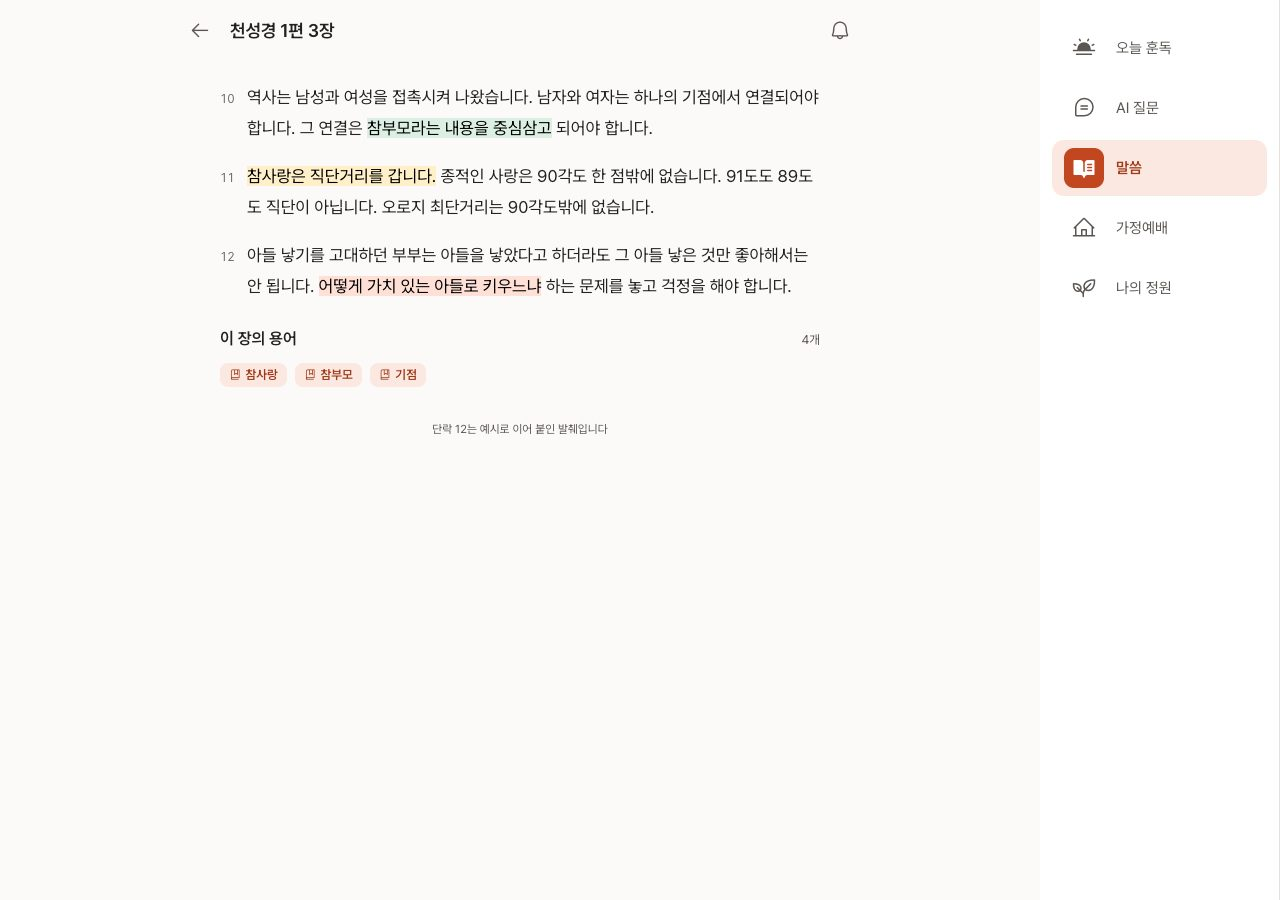
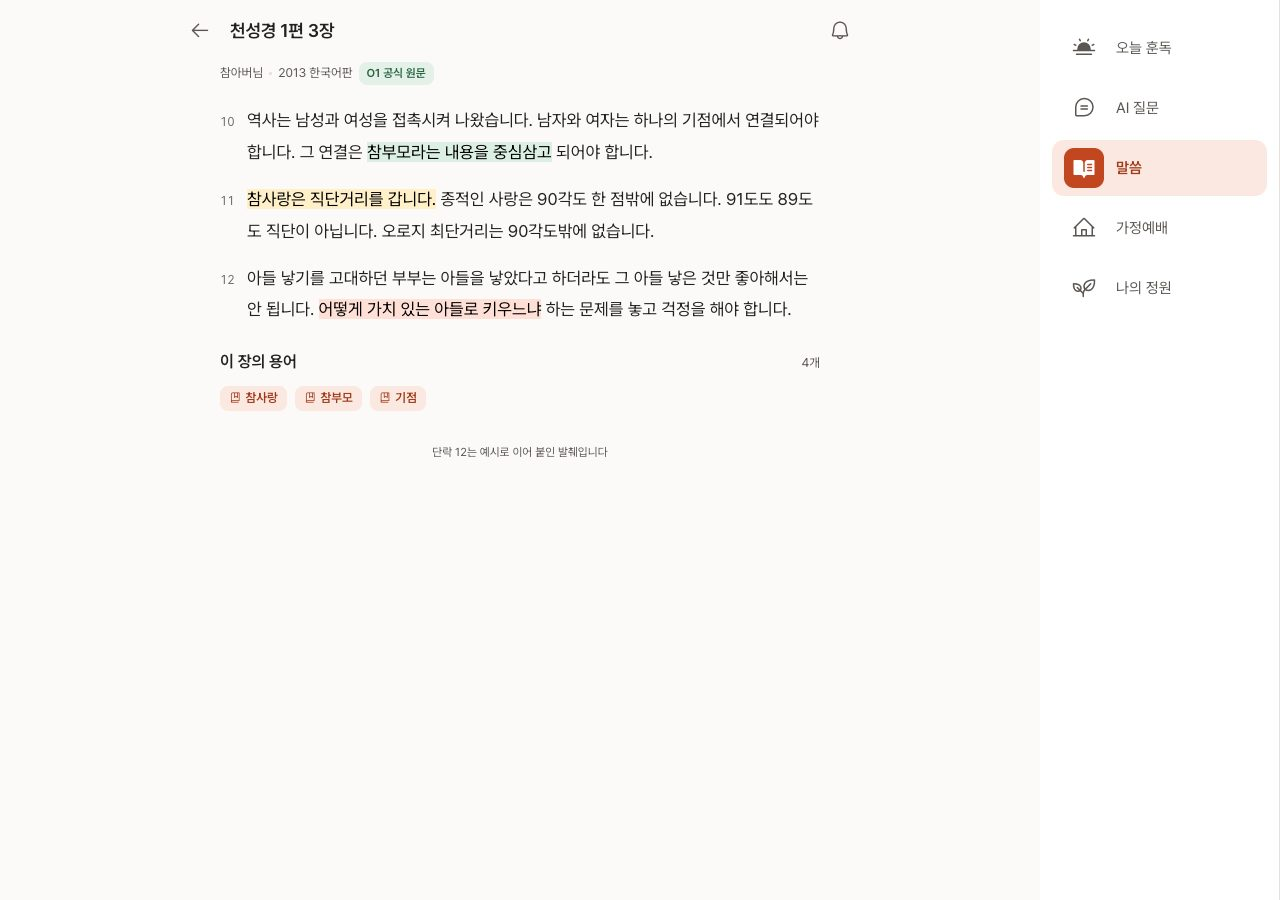
docs(design): 훈독 DESIGN.md 7안 독립 심사 3명 + DES-PWA-005 비교 문서 + A 기준안 출처 라인 결함 수정
- 심사 결과 C Notion·E Starbucks 84.3 동률 1위, F Claude 78.7, A 73.3
- theme-card.css 가 .lede-src 를 모든 화면에서 숨기던 결함을 today 한정으로 수정, A 캡처 5장 재촬영·재채점
- docs/README 색인, TODO Completed·[확인 필요] 갱신

Changed region(s): [[0.1562, 0.0622, 0.6562, 0.4667], [0.3438, 0.4667, 0.4688, 0.5289], [0.625, 0.3733, 0.6562, 0.4044]]

diff --git a/docs/prd/prototypes/hoondok-ds/theme-card.css b/docs/prd/prototypes/hoondok-ds/theme-card.css
@@ -4,5 +4,6 @@
 [data-theme="card"] .missions{gap:12px}
 [data-theme="card"] .mission{background:var(--surface);border:1px solid var(--line);
   border-radius:var(--r);padding:14px 16px;box-shadow:var(--shadow-hairline)}
-[data-theme="card"] .lede{display:none}          /* 홈 첫 요소는 사진 */
-[data-theme="card"] .lede-src{display:none}
+/* 홈 첫 요소는 사진. 훈독하기·원문 화면의 출처 라인은 숨기지 않는다 (2026-09-16 심사에서 발견한 결함 수정) */
+[data-theme="card"] [data-screen="today"] .lede{display:none}
+[data-theme="card"] [data-screen="today"] .lede-src{display:none}

diff --git a/docs/prd/2026-09-16-hoondok-designmd-directions.md b/docs/prd/2026-09-16-hoondok-designmd-directions.md
@@ -1,0 +1,189 @@
+# 훈독 DESIGN.md 7안 비교 — A 기준 + 브랜드 디자인 언어 6종
+
+- 문서 ID: `DES-PWA-005`
+- 작성일: 2026-09-16
+- 상태: **결정 대기.** 7안 중 하나를 고르거나, A 골격에 특정 요소만 흡수한다
+- 입력: [`DES-PWA-003` 디자인 시스템](../specs/web/hoondok-design-system.md), [`DES-PWA-004` 데스크톱 4안 비교](2026-09-16-hoondok-desktop-directions.md), [awesome-design-md](https://github.com/VoltAgent/awesome-design-md) 사본 6종 [`docs/research/design-md/`](../research/design-md/README.md)
+- 산출물: 비교 보드 [`hoondok-ds/board-designmd.html`](prototypes/hoondok-ds/board-designmd.html) · 테마 CSS 6장 · 캡처 35장 · 독립 심사 3명
+- 표기: 라벨 없는 문장은 렌더·계산으로 확인한 사실이다. `[가정]`은 검증이 필요한 추론, `[확인 필요]`는 사용자 결정이 필요한 항목이다
+
+## 0. 이 비교가 앞선 비교와 다른 점
+
+`DES-PWA-004`는 디자인 **도구** 3종이 자유롭게 그린 시안이었다. 이번에는 실제 브랜드가 공개한 **디자인 규칙 문서(DESIGN.md)** 를 읽고 훈독 도메인으로 번역했다. 브랜드 로고·이름·상징은 하나도 가져오지 않았고, 여백 총량·타이포 위계·색 역할 배분·형태 체계만 가져왔다.
+
+구조도 다르다. 7안 모두 **같은 마크업 한 벌(`app.html`)과 같은 베이스 CSS(`hoondok.css`)** 를 쓰고, 다른 것은 얹은 테마 CSS 한 장뿐이다. 정보구조·콘텐츠 차이가 0이라 심사가 순수하게 시각 언어만 본다. 폰(390)이 설계 기준이고 PC(1280)는 같은 CSS 의 미디어쿼리가 확장한 결과다.
+
+## 1. 일곱 안 한눈에
+
+| | **A 기준** | **B Apple** | **C Notion** | **D WIRED** | **E Starbucks** | **F Claude** | **G Airbnb** |
+|---|---|---|---|---|---|---|---|
+| 테마 파일 | `theme-card.css` | `theme-apple.css` | `theme-notion.css` | `theme-wired.css` | `theme-starbucks.css` | `theme-claude.css` | `theme-airbnb.css` |
+| 바탕 | `#fbfaf8` 웜 오프화이트 | `#f5f5f7` 파치먼트 | `#ffffff` | `#ffffff` | `#f2f0eb` 크림 | `#faf9f5` 크림 | `#ffffff` |
+| 액센트 | `#c24721` 감귤 | `#0066cc` 액션 블루 1색 | `#a8420b` 러스트 | `#101010` 먹 (링크 블루 1곳) | `#00754a` 딥그린 (+골드 예식) | `#a9583e` 테라코타 | `#e00b41` 코랄 |
+| 말씀 서체 | Pretendard | Pretendard | **Noto Serif KR** | **Noto Serif KR** | **Noto Serif KR** | **Noto Serif KR** | Pretendard |
+| 모서리 | 16 | 18 / 8 | 12 / 8 / 6 (알약 없음) | **0** | 12 | 12 / 8 | 20 / 8 / 알약 |
+| 권위 3층 방식 | 좌측 굵은 바 / 점무늬 카드 / 점선 | 맨살 / 흰 면+헤어라인 / 테두리만 | 인용 블록 / 라벤더 콜아웃 / 점선 입력 | 세리프 맨살 / 회색 상자 / 파선 | **딥그린 반전 블록** / 회색 상자 / 점선 | 잉크 좌측 룰+세리프 / 크림 카드 / 점선 | 상하 헤어라인 / 카드+그림자 / 입력 칸 |
+| 홈 첫 요소 | 사진 | 말씀 한 문장 → 풀블리드 사진 | 브레드크럼 → 말씀 | 제호 밴드 → 말씀 | 말씀 → 사진 | 제호 → 세리프 말씀 | 말씀 → 사진 카드 |
+
+각 테마 CSS 헤더에 "번역 결정 5줄"과 "의도적으로 버린 규칙"이 있다. 브랜드별 핵심만 옮기면:
+
+- **B Apple** 액션 색 1개, 그림자 0, 본문 17px, 사진 풀블리드. 광고형 라이트↔다크 타일 교대는 아침 앱에 부담이라 버렸다
+- **C Notion** 블록 언어(인용·콜아웃·입력)를 권위 3층에 1:1 배정. 보라 CTA 는 러스트로 교체
+- **D WIRED** "서사는 세리프, 구조는 산세리프". 유채색은 인라인 링크 1곳. 자간 남용은 하지 않았다(직전 편집안 탈락 사유)
+- **E Starbucks** 4단계 색 역할(deep·accent·mint·gold)을 원문·행동·완료·예식에 배분. 골드는 짙은 면 위에서만
+- **F Claude** 크림 캔버스 + 테라코타 + 세리프 디스플레이. 원색 `#cc785c`는 흰 글자 3.28:1 미달이라 press 색으로 교체. 다크 네이비 면은 버렸다
+- **G Airbnb** 단일 액센트(Rausch 원색은 미달이라 press 값), 카드=고르는 물건이라는 마켓플레이스 신호를 뒤집어 AI 설명에만 카드를 줬다
+
+## 2. 대비 (계산값, 각 테마 토큰 기준)
+
+WCAG 2.2 AA 는 본문 4.5:1, 비텍스트 3:1.
+
+| 안 | 바탕 | 액센트 | 본문/바탕 | 보조/바탕 | 흰 글자/액센트 | 액센트/바탕 | 강한 액센트/바탕 |
+|---|---|---|---|---|---|---|---|
+| A | `#fbfaf8` | `#c24721` | 15.38 | 6.97 | **4.98** | **4.77** | 6.46 |
+| B | `#f5f5f7` | `#0066cc` | 15.46 | 11.60 | 5.57 | 5.11 | 6.54 |
+| C | `#ffffff` | `#a8420b` | 12.26 | 6.80 | 6.09 | 6.09 | 9.11 |
+| D | `#ffffff` | `#101010` | 19.03 | 8.86 | 19.03 | 19.03 | 5.53 |
+| E | `#f2f0eb` | `#00754a` | 14.63 | 6.62 | 5.76 | 5.06 | 7.01 |
+| F | `#faf9f5` | `#a9583e` | 17.50 | 10.34 | 5.06 | **4.80** | 6.35 |
+| G | `#ffffff` | `#e00b41` | 15.91 | 10.53 | **4.89** | **4.89** | 6.55 |
+
+A·F·G 의 웜 액센트는 AA 기준선에 걸친다(4.8~5.1). 이 셋은 액센트 위 흰 글자를 쓸 때 `--accent-strong` 으로 내려야 안전하다. D 는 유채색이 없어 대비가 무의미하게 높다.
+
+## 3. 심사 전 손질 (스킬 패스 2회)
+
+심사 캡처 전에 테마 CSS 6장(A 제외)에 두 패스를 돌렸다. 각 패스가 기각한 지적은 CSS 하단 주석 블록에 사유와 함께 남겼다.
+
+| 패스 | 수정 | 기각 | 가장 큰 발견 |
+|---|---|---|---|
+| `ui-ux-pro-max` (접근성·터치·폭·타이포) | 21 | 2 | E 하단 탭이 딥그린 색면이라 베이스 초록 포커스 링이 **2.16:1** 로 보이지 않았다. 흰 링(12.45:1)으로 교체 |
+| `taste-skill` (AI 슬롭 패턴) | 14 | 15 | F today 의 미션 3개가 바로 아래 정성 카드와 면·테두리·모서리가 완전히 같아 위계가 사라졌다. 헤어라인 행으로 내림 |
+
+`ui-ux-pro-max` 패스는 6테마 × 3화면 × 2폭 = 36 조합을 실측했고, 헤더 주석의 대비 수치는 전부 실측과 일치했다. 1280 본문 폭은 폰트를 건드리지 않고 `--measure-read` 만 테마별로 조정해 한글 35~44자 구간에 넣었다.
+
+**7안 공통이라 손대지 않은 것 2건**: `app.html` 의 "이 말씀에 질문하기" 인라인 링크 높이 19.5px, 체크 원(30~32px)·용어 칩(30px) 이 44px 미만. 베이스 마크업·`DES-PWA-003` 소관이며 어떤 안을 고르든 같이 고쳐야 한다.
+
+## 4. 심사 결과
+
+독립 심사원 3명(각각 빈 컨텍스트 opus, 서로 상의 없음)이 5축 × 20점으로 채점했다. 캡처 35장(7안 × 폰 3 + PC 2)을 전부 열어 보게 했다.
+
+채점 축: 1 대상 적합성(30~60대·신앙 정서) · 2 모바일 설계(390 이 본체) · 3 권위 층 분리(가장 중요) · 4 접근성·가독성 · 5 PC 확장
+
+### 4.1 점수
+
+| 축 (각 20점) | A | B | C | D | E | F | G |
+|---|---|---|---|---|---|---|---|
+| 1 대상 적합성 | 15 · 16 · 16 | 12 · 12 · 11 | 18 · 18 · 15 | 8 · 11 · 12 | **17 · 19 · 19** | 19 · 17 · 18 | 11 · 12 · 9 |
+| 2 모바일 | 15 · 16 · 17 | 16 · 16 · 13 | 17 · 17 · 15 | 13 · 17 · 13 | **15 · 18 · 18** | 16 · 15 · 17 | 13 · 16 · 16 |
+| 3 권위 층 | 16 · 17 · 16 | 15 · 13 · 10 | **19 · 18 · 18** | 12 · 14 · 11 | **17 · 19 · 19** | 15 · 16 · 15 | 11 · 11 · 7 |
+| 4 접근성 | 13 · 15 · 12 | 17 · 17 · 12 | 15 · 17 · 15 | **16 · 18 · 17** | 14 · 16 · 16 | 12 · 14 · 14 | 15 · 15 · 13 |
+| 5 PC 확장 | 11 · 13 · 12 | 13 · 12 · 10 | **16 · 18 · 17** | 14 · 16 · 14 | 13 · 17 · 16 | 15 · 18 · 15 | 14 · 14 · 13 |
+| **합계** | 70 · 77 · 73 | 73 · 70 · 56 | 85 · 88 · 80 | 63 · 76 · 67 | 76 · 89 · 88 | 77 · 80 · 79 | 64 · 68 · 58 |
+
+| | A | B | **C** | D | **E** | F | G |
+|---|---|---|---|---|---|---|---|
+| 평균 | 73.3 | 66.3 | **84.3** | 68.7 | **84.3** | 78.7 | 63.3 |
+| 1위 표 | 0 | 0 | 1 | 0 | **2** | 0 | 0 |
+| 2위 표 | 0 | 0 | **2** | 0 | 0 | 1 | 0 |
+| 축별 1위(평균) | 0 | 0 | 2 (권위층 공동·PC) | 1 (접근성) | 3 (대상·모바일·권위층 공동) | 0 | 0 |
+
+**C 와 E 가 평균 동률 84.3 이다.** E 가 1위 2표, C 가 1위 1표 + 2위 2표. F 가 3표 모두 3위 근처(2·3·3위)로 단독 3위. A 는 4·4·5위. 나머지 셋(B·D·G)은 60점대로 뚜렷이 뒤진다.
+
+축별 평균:
+
+| 축 | A | B | C | D | E | F | G |
+|---|---|---|---|---|---|---|---|
+| 1 대상 적합성 | 15.7 | 11.7 | 17.0 | **10.3** ⚠ | **18.3** | 18.0 | 10.7 |
+| 2 모바일 | 16.0 | 15.0 | 16.3 | 14.3 | **17.0** | 16.0 | 15.0 |
+| 3 권위 층 | 16.3 | 12.7 | **18.3** | 12.3 | **18.3** | 15.3 | **9.7** ⚠ |
+| 4 접근성 | 13.3 | 15.3 | 15.7 | **17.0** | 15.3 | 13.3 | 14.3 |
+| 5 PC 확장 | **12.0** ⚠ | 11.7 | **17.0** | 14.7 | 15.3 | 16.0 | 13.7 |
+
+### 4.2 심사원 3명이 독립적으로 같은 말을 한 것
+
+| 대상 | 3/3 공통 |
+|---|---|
+| **E 채택 근거** | `e-390-read` 의 딥그린 반전 원문 블록. 권위 3층을 색이 아니라 **바탕의 무게**로 가른 유일한 안. 색각 이상·저조도에서도 "짙은 덩어리 = 공식 원문"이 살아남는다 |
+| **C 채택 근거** | 라벤더 AI 콜아웃 + 세리프 원문 + 점선 메모. 3층이 색·서체·형태 세 축으로 동시에 갈린다. `c-1280-words` 읽기 폭(약 40자)이 7안 중 가장 정확하다 |
+| **E 수정 필수** | 딥그린 카드 위 골드 `D-14` 가 AA 경계. 하단 딥그린 푸터 띠가 딥그린 탭바와 붙어 짙은 띠 두 겹. 원문이 길어지면 다크 장문 읽기가 50~60대에 부담 → **글자 수 임계치 넘으면 라이트 카드 + 좌측 바로 폴백** 규칙 필요 |
+| **A 약점** | AI 설명과 내 메모가 **둘 다 점선**이라 가장 중요한 두 층이 같은 형태. `a-390-read` 원문 제목이 본문보다 작아 위계 역전 |
+| **D 결함** | 하이라이트 3종이 전부 회색이라 강조의 종류 구분이 소멸. 색을 뺀 대신 대체 신호를 주지 않았다 |
+| **G 결함** | 원문·AI·메모가 모두 흰 배경 + 얇은 회색 선이라 3층이 한 층으로 읽힌다(권위층 9.7, 최저) |
+| **B·D 폰 문제** | 상단 대형 타이틀/제호 밴드 + 히어로가 첫 화면의 40% 이상을 먹어 "오늘의 실천"이 접힌다. 1280 에서는 보이지 않는다 |
+
+2/3 이 지적: C·D 체크박스가 30px 사각이라 엄지 타깃 부족(§3 의 공통 건). F 의 AI 크림 카드가 페이지 크림과 명도 차가 작아 층 분리가 C·E 보다 무르다. F 요일 칩이 검정 채움 + 테라코타 테두리라 팔레트가 흔들린다.
+
+### 4.3 A 재채점 공개
+
+첫 캡처에서 A 의 훈독하기·원문 화면에 **출처 라인과 `O1 공식 원문` 배지가 통째로 빠져 있었다.** `theme-card.css` 가 홈 첫 요소를 사진으로 두려고 `.lede-src` 를 숨겼는데 화면 구분 없이 전부 숨긴 제작 결함이다(이전 커밋 `4ecf6d0`). today 화면에만 적용되도록 한 줄 고치고 A 캡처 5장을 다시 찍어 3명에게 **A 만** 재채점을 요청했다.
+
+| 심사원 | A 이전 → 이후 | 순위 변화 |
+|---|---|---|
+| 1 | 65 → 70 (권위층 +6, 접근성 −1) | 5위 유지 |
+| 2 | 71 → 77 (권위층 +3, 대상·모바일·접근성 +1씩) | 5위 → 4위 |
+| 3 | 68 → 73 (권위층 +4, 접근성 +1) | 4위 유지 |
+
+재채점 후에도 A 는 C·E 와 11점 차다. 결함 수정이 순위 구조를 바꾸지는 않았다. 재채점 기록은 각 `judge-N.md` 하단에 있다.
+
+### 4.4 심사 조건
+
+- 심사원 3명은 각각 빈 컨텍스트에서 시작했고 서로 상의하지 않았다
+- 브랜드 이름은 프롬프트에 넣지 않았다. 단 CSS 파일명(`theme-apple.css` 등)이 출처를 암시하므로 채점 기준에 "그 이름으로 점수를 조정하지 마라"를 명시했다. 완전한 블라인드는 아니다
+- 채점 원문 3건과 기준: [`prototypes/reviews-2026-09-16-designmd/`](prototypes/reviews-2026-09-16-designmd/README.md)
+
+## 5. 결정 가이드
+
+### 5.1 세 축의 맞교환
+
+```
+정서·따뜻함(A·F)  ←──────────────────→  권위 층 분리(C·E)  ←──────→  대비 여유(D)
+   F 78.7 · A 73.3                        E 84.3 · C 84.3                 D 68.7
+```
+
+- **E Starbucks** 정서와 권위 층을 동시에 잡은 유일한 안(대상 18.3·권위 18.3). 대신 반전 블록의 장문 폴백 규칙과 골드 대비를 손봐야 한다. `DEC-PWA-017`(A 단독) 재결정 필요
+- **C Notion** 권위 층·PC 확장이 가장 정확하고 수정 요구가 적다. 정서는 E 보다 한 단계 차다(보라가 웜 팔레트와 어긋난다는 지적 1건). 재결정 필요
+- **F Claude** A 와 같은 웜 계열을 "더 잘 만든" 안. 정서 18.0 으로 A 를 앞서지만 접근성 13.3 으로 A 와 같은 약점(연한 칩·옅은 선)을 공유한다
+- **A 기준** 재채점 후에도 4위. 최대 약점은 PC 확장(12.0)과 "AI·메모 둘 다 점선". 둘 다 `DES-PWA-003` 안에서 고칠 수 있는 범위다
+
+### 5.2 5분 안에 결정하는 법
+
+1. 보드를 연다: `docs/prd/prototypes/hoondok-ds/board-designmd.html` → 폭 **390** → 화면 **훈독하기**
+2. 일곱 개의 "AI 설명" 상자를 나란히 본다. **"공식 해설 아님"이 형태만으로 읽히는가**를 이 한 화면으로 판단한다
+3. 아래에서 고른다
+
+| 마음이 가는 쪽 | 고를 안 | 필요한 후속 |
+|---|---|---|
+| "심사 결과를 따르겠다" | **E** 또는 **C** | `DEC-PWA-017` 재결정 + `DES-PWA-003` §1 토큰 교체. E 는 반전 블록 장문 폴백·골드 대비, C 는 라벤더 본문 대비 실측 |
+| "감귤 아침 느낌은 지키되 A 보다 나은 걸 원한다" | **F** | 재결정 필요. 칩·선 대비 보강(접근성 13.3) |
+| "A 를 유지하고 고친다" | **A + 흡수** | 재결정 없음. §5.3 흡수 후보 적용 + PC 여백 처리 |
+| "지금 못 고르겠다" | 보류 | 실제 사용자 3명에게 `*-390-read.jpg` 7장을 보여 준다. 10분이면 된다 |
+
+### 5.3 어떤 안을 고르든 가져올 것
+
+- **E 의 반전 원문 블록** (3/3 추천). A 골격에 이식하면 "AI·메모 둘 다 점선" 문제가 원문 쪽에서 해소된다
+- **C 의 AI 콜아웃 이중 라벨** ("AI 설명 · 공식 해설 아님" 내부 + 헤더 우측). 오인 여지가 가장 적다
+- **D 의 형태 전용 요일 칩** (채움/링/민 원). 색만으로 상태를 구분하지 않는다는 요건을 공짜로 충족한다
+- **B 의 본문 17px 규범**. 30~60대 주 사용자와 방향이 같다
+
+### 5.4 주의
+
+심사원 3명은 모두 **AI** 다. "대상 적합성" 점수는 추론이지 관찰이 아니다. 실제 30~60대 사용자 3명이 7장을 보는 것이 이 점수 전체보다 낫다.
+
+## 6. 제작 기준
+
+- 마크업 한 벌 `app.html`, 베이스 `hoondok.css`, 테마 `theme-*.css`. 테마는 `[data-theme="x"]` 접두 셀렉터로만 덮어쓴다. 마크업·베이스를 복제하지 않는다
+- base=390px. 미디어쿼리 없는 규칙이 폰 규칙, `768`·`1024` 에서 확장. 1024 이상에서 하단 탭 → 좌측 레일 전환은 베이스가 한다
+- 콘텐츠(말씀·인물·교회·수치)는 예시이며 7안 동일. 사진은 `picsum.photos` 예시
+- 렌더 검증: Chromium 390×844·1280×900, 7안 × 3화면, 가로 넘침 0px, JS 오류 0
+- DESIGN.md 원본은 수정하지 않았다(외부 자료 정책). 번역 근거는 각 CSS 헤더
+
+## 7. 결정 기록
+
+| 날짜 | 결정 | 상태 |
+|---|---|---|
+| 2026-09-14 | `DEC-PWA-017` A 아침 햇살 단독 채택, 세리프 인용 미채택 | 확정 (입력) |
+| 2026-09-16 | `DES-PWA-004` 데스크톱 4안 심사 (D 89.3 1위) | 완료 · 결정 대기 |
+| 2026-09-16 | DESIGN.md 6종 번역 + 7안 심사 (**C·E 84.3 동률 1위**, F 78.7, A 73.3) | 완료 · §4 |
+| 2026-09-16 | A 기준안 출처 라인 결함 발견·수정·재채점 | 완료 · §4.3 |
+| — | **어떤 안으로 갈 것인가** (E / C / F / A+흡수) | `[확인 필요]` |
+| — | 세리프 말씀 인용 재검토 — 상위 3안(C·E·F)이 전부 세리프 원문 | `[확인 필요]` |

diff --git a/docs/prd/prototypes/reviews-2026-09-16-designmd/judge-2.md b/docs/prd/prototypes/reviews-2026-09-16-designmd/judge-2.md
@@ -1,0 +1,48 @@
+# 독립 심사원 2번 — 훈독 시안 7벌 채점
+
+35장(390px 3장 × 7 + 1280px 2장 × 7)을 모두 직접 열어 본 뒤 작성했다.
+
+## 점수표
+| 시안 | 1.대상적합 | 2.모바일 | 3.권위층 | 4.접근성 | 5.PC확장 | 합계 |
+|---|---|---|---|---|---|---|
+| A | 16 | 16 | 17 | 15 | 13 | 77 |
+| B | 12 | 16 | 13 | 17 | 12 | 70 |
+| C | 18 | 17 | 18 | 17 | 18 | 88 |
+| D | 11 | 17 | 14 | 18 | 16 | 76 |
+| E | 19 | 18 | 19 | 16 | 17 | 89 |
+| F | 17 | 15 | 16 | 14 | 18 | 80 |
+| G | 12 | 16 | 11 | 15 | 14 | 68 |
+
+## 순위
+1위 안 E — `e-390-read.jpg` 에서 공식 원문만 딥그린 다크 카드에 흰 글씨로 들어가 있어, 일곱 안 중 유일하게 "원문 / AI / 내 메모"가 색이 아니라 **바탕 자체**로 갈린다.
+2위 안 C — `c-390-read.jpg` 의 라벤더 AI 카드가 원문(좌측 세로 바 + 세리프)·메모(점선)와 서로 다른 색계열·서로 다른 형태를 동시에 쓴 유일한 대안이고, `c-1280-words.jpg` 의 세리프 본문 폭이 7안 중 가장 자연스럽다.
+3위 안 F — `f-1280-today.jpg`/`f-1280-words.jpg` 의 베이지·테라코타 조화가 7안 중 가장 안정적이지만, `f-390-read.jpg` 의 AI 카드 베이지가 페이지 배경 베이지와 거의 같아 층 분리가 C·E보다 약하다.
+4위 안 A — 수정본 `a-390-read.jpg`/`a-390-words.jpg` 에 출처 라인(참아버님 · 천성경 · 2013 한국어판 · `O1 공식 원문`)이 붙어 권위 축이 크게 회복됐지만, AI 설명과 내 메모가 **여전히 둘 다 점선 테두리**라 가장 중요한 두 층이 같은 형태를 쓴다.
+5위 안 D — `d-390-words.jpg` 는 대비가 7안 중 최강이지만 하이라이트 3종이 전부 회색·밑줄로 뭉개져 원문 강조의 의미 구분이 사라졌다.
+6위 안 B — `b-390-read.jpg` 의 본문 대비·글자 크기는 최상급이나 파랑 일색이 새벽 훈독의 정서와 어긋나고, `b-1280-today.jpg` 는 48px 제목과 과대 여백으로 PC 스크롤만 길어졌다.
+7위 안 G — `g-390-read.jpg` 에서 원문·AI·메모가 모두 흰 배경 + 얇은 회색 선이라 세 층이 사실상 한 층으로 읽힌다.
+
+## 시안별 한 줄 평
+- 안 A: 강점 — `a-390-read.jpg` 원문 좌측 굵은 세로 바 + 상단 출처 라인이 함께 걸려, 원문 블록이 "어디서 왔는지"와 "어디까지가 원문인지"를 한 덩어리로 보여준다. `a-390-today.jpg` 는 히어로 바로 아래 실천 카드가 이어져 7안 중 유일하게 첫 화면에서 실천 1번이 온전히 보인다. 약점 — 수정본 `a-390-read.jpg` 의 말씀 제목("참사랑은 직단거리를 갑니다")이 바로 아래 인용 블록보다 작고 얇아 **위계가 역전**돼 있다. AI 설명과 메모가 둘 다 점선인 문제도 그대로다.
+- 안 B: 강점 — `b-390-words.jpg` 의 본문 글자 크기·굵기가 7안 중 가장 노안 친화적이다. 약점 — `b-1280-words.jpg` 는 원문 단락에 아무 시각적 앵커가 없어 AI 카드가 붙는 순간 층 위계가 무너질 구조다.
+- 안 C: 강점 — AI 설명만 라벤더 계열을 써서 원문(무채)·메모(점선)와 3방향으로 갈린다. 약점 — `c-390-today.jpg` 의 실천 체크박스가 얇은 회색 선 사각형이라 탭 대상으로 잘 안 읽힌다.
+- 안 D: 강점 — `d-1280-words.jpg` 까지 색 없이 대비만으로 성립해 WCAG 위험이 가장 낮다. 약점 — `d-390-today.jpg` 의 검정 마스트헤드·신문 조판이 "조용하고 따뜻한 아침"이 아니라 조간신문처럼 읽힌다.
+- 안 E: 강점 — `e-390-words.jpg` 의 단락 번호 원형 배지(11번만 채움)가 현재 위치를 색+형태로 이중 표시한다. 약점 — `e-390-today.jpg` 요일 칩의 연민트 배경 위 회색 글자, `e-1280-today.jpg` 딥그린 카드 위 금색 D-14가 대비 경계선이다.
+- 안 F: 강점 — 7안 중 정서 온도가 가장 높고 `f-1280-words.jpg` 읽기 폭이 적절하다. 약점 — `f-390-today.jpg` 실천 3항목이 카드 없이 구분선만이라 탭 가능 영역이 안 보이고, 요일 칩은 검정 채움 + 테라코타 테두리가 섞여 팔레트가 흔들린다.
+- 안 G: 강점 — `g-390-today.jpg` 의 여백 설계가 가볍고 스크롤이 짧다. 약점 — 크림슨 완료 버튼과 핑크 진행바가 커머스 앱 톤이고, 세 층 분리는 7안 중 최하다.
+
+## 결정권자에게
+- **고른다면**: 안 E. 이 제품의 1순위 축인 권위 층 분리를 색이 아닌 **바탕 반전**으로 풀어서, 향후 콘텐츠가 길어지거나 AI 블록이 늘어도 위계가 깨지지 않는다. 정서(딥그린·크림)도 새벽 훈독 톤과 맞고, `e-1280-*` 에서 레일 전환이 폰을 늘린 느낌 없이 성립한다.
+- **주의할 점**:
+  1. `e-390-read.jpg` 의 다크 원문 카드는 지금 한 단락이라 괜찮지만, 원문이 3단락 이상으로 길어지면 다크 배경 장문 읽기는 50~60대에게 부담이다. **글자 수 임계치를 정하고 그 이상이면 라이트 카드 + 좌측 딥그린 바로 폴백**시켜야 한다.
+  2. `e-390-today.jpg` 요일 칩(연민트 배경 × 회색 글자)과 딥그린 카드 위 금색 `D-14` 는 실측 대비를 반드시 재확인할 것. 둘 다 AA 경계로 보인다.
+  3. `e-1280-words.jpg` 하단 딥그린 푸터 띠가 콘텐츠 폭에서만 잘려 레일과 어긋난다. 풀블리드로 정리하거나 폭을 맞춰야 한다.
+- **가장 아까운 안**: 안 D. 순위는 5위지만 **색을 전부 빼도 성립하는 대비 설계**와 `d-390-today.jpg` 의 높은 정보 밀도(가장 짧은 스크롤)는 그대로 가져올 만하다. 특히 요일 칩을 채움/테두리 형태로만 구분한 방식은 E·C에 이식하면 "상태를 색만으로 구분하지 않는다" 요건을 공짜로 충족한다.
+- **폰에서만 드러난 문제**:
+  1. **이중 헤더로 첫 화면이 낭비된다.** `b-390-today.jpg`·`d-390-today.jpg` 는 상단 제목+출처 블록과 히어로 이미지 안의 인사문("밤이 깊을수록…")이 같은 역할을 두 번 한다. 390px 에서는 이 두 덩어리가 첫 화면의 절반 이상을 먹어 정작 "오늘의 실천" 첫 항목이 접힌다. 1280px 캡처에서는 가로 여유 때문에 전혀 문제로 보이지 않는다. **안 A가 홈에서만 이 블록을 접는 선택은 이 문제에 대한 유효한 해답이다** — 다만 홈에서도 오늘 말씀이 무엇인지는 실천 카드 1번(`천성경 · 참아버님`)으로만 알 수 있으니, 그 보조 줄의 대비는 지켜야 한다.
+  2. **카드 없는 리스트의 탭 대상이 사라진다.** `f-390-today.jpg`·`g-390-today.jpg` 는 실천 3항목이 구분선만으로 나뉘어 있고 체크 원이 화면 오른쪽 끝에 붙어 있다. 390px 폰에서 오른손 엄지 기준 우상단 원은 도달 범위 밖이고, 행 전체가 탭 가능한지도 보이지 않는다. PC 캡처에서는 마우스 전제라 이 결함이 드러나지 않는다.
+
+## 재채점 기록
+안 A **71 → 77** (5위 → 4위). 다른 6안 점수·순위는 손대지 않았다.
+바뀐 축: 3.권위층 14→17 — 수정본 `a-390-read.jpg`·`a-390-words.jpg` 에 출처와 `O1 공식 원문` 등급 배지가 붙어 원문 층이 근거를 갖췄다. 1.대상적합 14→16 — 홈에서만 출처를 접는 것이 제작 의도였음이 확인돼, 초회 심사의 "출처 누락" 감점이 무효가 됐다. 2.모바일 15→16 — 홈 이중 헤더가 없어 390px 첫 화면에 실천 1번이 들어온다.
+유지한 축: 4.접근성 15, 5.PC확장 13 — AI·메모가 둘 다 점선인 문제와 `a-1280-words.jpg` 하단 대형 공백은 이번 수정으로 달라지지 않았다.

diff --git a/docs/prd/prototypes/reviews-2026-09-16-designmd/judge-1.md b/docs/prd/prototypes/reviews-2026-09-16-designmd/judge-1.md
@@ -1,0 +1,46 @@
+# 독립 심사원 1번 — 훈독 시안 7벌 채점
+
+## 점수표
+| 시안 | 1.대상적합 | 2.모바일 | 3.권위층 | 4.접근성 | 5.PC확장 | 합계 |
+|---|---|---|---|---|---|---|
+| A | 15 | 15 | 16 | 13 | 11 | 70 |
+| B | 12 | 16 | 15 | 17 | 13 | 73 |
+| C | 18 | 17 | 19 | 15 | 16 | 85 |
+| D | 8 | 13 | 12 | 16 | 14 | 63 |
+| E | 17 | 15 | 17 | 14 | 13 | 76 |
+| F | 19 | 16 | 15 | 12 | 15 | 77 |
+| G | 11 | 13 | 11 | 15 | 14 | 64 |
+
+## 순위
+1위 안 C — 세 층(세리프 원문 + 좌측 바 / 라벤더 배경의 AI 박스 / 점선 메모 박스)이 색·질감·형태 세 가지로 동시에 갈라지는 유일한 안이고, 출처 메타를 `천성경 제1편 3장 / 2013 한국어판` + `참아버님 · O1 공식 원문` 2줄로 폰·PC 모두에 빠짐없이 얹었다.
+2위 안 F — 390 today에서 카드 테두리를 걷어내고 구분선만 남겨 가장 조용하고, 세리프 본문 줄간격이 7안 중 가장 편하다. 다만 회색 선·연한 칩에 기대 접근성이 최하위권이다.
+3위 안 E — e-390-read 의 딥그린 반전 블록이 "이건 공식 원문이다"를 형태만으로 선언하고, 단락 번호 원형 배지가 원문 층을 한 번 더 못박는다.
+4위 안 B — 검정 pill `O1 공식 원문` 배지와 큰 본문으로 대비·가독은 최상이지만, 파란 채움 요일칩·파란 CTA가 금융 앱 톤이라 새벽 훈독의 정서와 어긋난다.
+5위 안 A — 재촬영본에서 a-390-read·a-390-words 모두 `참아버님 · 천성경 · 2013 한국어판 · O1 공식 원문` 줄이 복구되어 필수 요건을 채웠고, 원문 좌측 굵은 바 + AI 점선 테두리 박스로 층 구분도 형태로 이뤄진다. 다만 a-390-read 의 원문 제목이 본문과 같은 크기로 눌려 원문 층의 존재감이 C·E 보다 약하다.
+6위 안 G — 본문 대비와 탭 타깃은 넉넉하지만 진홍 CTA·진홍 D-14 가 조용한 톤을 깨고, 원문 인용이 헤어라인 두 줄뿐이라 AI 흰 카드와 형태가 거의 같다.
+7위 안 D — 흑백 대비는 1등이지만 d-390-words 의 하이라이트 3종이 전부 같은 회색 밑줄/회색 배경이 되어 구분이 소멸했고, 검정 잡지 배너가 신앙 앱보다 편집 매거진으로 읽힌다.
+
+## 시안별 한 줄 평
+- 안 A: 강점 — AI 설명만 점선 테두리 박스로 처리해 실선 카드가 지배하는 화면에서 "이건 공식 해설이 아니다"가 형태만으로 읽히고, a-390-today 의 히어로·실천 카드·정성 진행률이 한 스크롤에 무리 없이 앉는다. 약점 — a-390-read 에서 원문 제목 "참사랑은 직단거리를 갑니다"가 본문과 같은 크기의 흐린 글자로 눌려 오늘의 말씀이 어디서 시작하는지 위계가 흐리고, 새로 들어온 출처 줄과 연녹색 `O1 공식 원문` 배지가 작고 대비가 빠듯하다.
+- 안 B: 강점 — b-390-read 상단 `참아버님 · 천성경 · 2013 한국어판 + O1 공식 원문` 한 줄이 가장 먼저 눈에 들어오고 본문 글자도 제일 크다. 약점 — b-1280-today 에서 720px 히어로 오른쪽에 큰 공백이 남고 섹션 간격이 과해 폰을 늘린 인상.
+- 안 C: 강점 — c-390-read 의 라벤더 AI 박스 + `AI 설명 · 공식 해설 아님` 내부 라벨 + 헤더 우측 `공식 해설 아님` 이중 표기로 오인 여지가 가장 적다. 약점 — 라벤더 배경 위 보라 본문은 대비 여유가 빠듯해 AA 실측이 필요하다.
+- 안 D: 강점 — d-1280-words 의 순흑 본문과 굵은 상단 괘선은 7안 중 대비가 가장 높다. 약점 — 세 하이라이트가 전부 회색이라 색을 뺀 대신 대체 신호를 주지 않았다. 접근성 원칙을 지키려다 정보를 잃은 사례.
+- 안 E: 강점 — e-1280-words 의 단락별 카드 분할과 좌측 번호 배지로 원문 단위가 명확하다. 약점 — 딥그린 카드 위 골드 `D-14`, 그린 푸터 띠가 크림 배경과 만나 대비·경계가 불안하다.
+- 안 F: 강점 — f-390-today 의 선 기반 리스트와 세리프가 만드는 정적(靜的)인 톤이 새벽 3분 사용 맥락에 가장 잘 맞는다. 약점 — 연분홍 테두리 용어 칩, 옅은 회색 체크 원, 얇은 회색 구분선에 정보가 실려 4번 축에서 가장 위험하다.
+- 안 G: 강점 — g-390-read 의 여백과 둥근 CTA·칩은 탭 대상이 가장 크고 2세대 청년에게 익숙하다. 약점 — 원문 인용이 위아래 선만 있고 배경·서체가 AI 흰 카드와 같아 3번 축이 사실상 무너진다.
+
+## 결정권자에게
+- **고른다면**: 안 C. 이 제품에서 가장 중요한 3번 축(권위 층 분리)을 색이 아니라 서체(세리프 원문 vs 산세리프 AI), 배경(무색 vs 라벤더 vs 점선), 라벨(이중 "공식 해설 아님") 세 겹으로 푼 유일한 안이고, 1·2·5번 축에서도 하위가 없다. 폰·PC 어느 쪽도 희생하지 않았다.
+- **주의할 점**:
+  1. 라벤더 AI 박스의 배경·본문 대비를 실측해 AA(4.5:1) 미달이면 배경을 더 옅게, 글자를 더 진하게 조정한다.
+  2. c-390-today 의 요일칩 7개가 390px 폭을 꽉 채워 실제 탭 타깃이 44px 미만으로 보인다. 칩 높이를 키우거나 가로 스크롤/2행으로 뺀다.
+  3. c-390-today 의 실천 체크박스가 빈 사각형이라 "완료 가능"이 형태로만 읽힌다. 체크 아이콘 힌트나 라벨을 붙인다.
+- **가장 아까운 안**: 안 E. 순위는 3위지만 e-390-read 의 딥그린 반전 원문 블록과 단락 번호 원형 배지는 C 에 그대로 이식할 가치가 있다. C 의 좌측 바보다 "공식 원문" 선언력이 세다. 안 F 의 카드 없는 선 기반 today 레이아웃도 C 의 카드 과다를 덜어낼 재료다.
+- **폰에서만 드러난 문제**:
+  1. b-390-today 의 두 번째 실천 항목 "오늘의 기도 제목: 자녀의 새 학기"가 `학/기` 로 끊겨 2줄이 된다. b-1280-today 에서는 한 줄이라 PC 캡처만 봤다면 못 봤다. 본문 폭 대비 제목 크기가 폰에서 과한 신호다.
+  2. d-390-words 는 세 하이라이트가 전부 회색인 데다 줄바꿈으로 하이라이트가 두 줄에 걸쳐 잘리면서, 어디부터 어디까지가 강조인지 판별이 불가능해진다. 넓은 d-1280-words 에서는 한 줄에 담겨 문제가 덜 드러난다.
+
+## 재채점 기록
+- 안 A: 65 → 70. 출처 라인 복구 캡처를 재확인해 3.권위층 10 → 16 (a-390-read·a-390-words 에 화자·저작물·판본·공식성 배지가 모두 노출, 원문 좌측 바 + AI 점선 박스로 형태 구분 성립).
+- 4.접근성 14 → 13 (새로 들어온 출처 줄이 작은 회색 글자이고 연녹 배경 위 녹색 배지라 대비 여유가 빠듯 — AA 실측 필요).
+- 1·2·5축과 다른 6안의 점수는 변경 없음. 순위는 5위 유지(B 73 과 3점 차로 축소).

diff --git a/docs/prd/prototypes/reviews-2026-09-16-designmd/judge-3.md b/docs/prd/prototypes/reviews-2026-09-16-designmd/judge-3.md
@@ -1,0 +1,49 @@
+# 독립 심사원 3번 — 훈독 시안 7벌 채점
+
+캡처 35장(7안 × 5화면) 전부 확인함.
+
+## 점수표
+| 시안 | 1.대상적합 | 2.모바일 | 3.권위층 | 4.접근성 | 5.PC확장 | 합계 |
+|---|---|---|---|---|---|---|
+| A | 16 | 17 | 16 | 12 | 12 | 73 |
+| B | 11 | 13 | 10 | 12 | 10 | 56 |
+| C | 15 | 15 | 18 | 15 | 17 | 80 |
+| D | 12 | 13 | 11 | 17 | 14 | 67 |
+| E | 19 | 18 | 19 | 16 | 16 | 88 |
+| F | 18 | 17 | 15 | 14 | 15 | 79 |
+| G | 9 | 16 | 7 | 13 | 13 | 58 |
+
+## 순위
+1위 안 E — `e-390-read.jpg` 에서 원문을 딥그린 반전 블록(흰 글씨)으로 깔고 AI 설명은 연회색 박스, 메모는 점선 박스로 둬 세 층이 색이 아니라 **무게와 형태**로 갈리는 유일한 안이면서, 크림 바탕의 톤이 새벽 신앙 생활 정서에 가장 맞는다.
+2위 안 C — `c-390-read.jpg` 의 라일락 AI 블록 + 세리프 원문 + 점선 메모로 3층 대비가 E 다음으로 선명하고, `c-1280-words.jpg` 한 줄 약 40자로 PC 읽기 폭이 7안 중 가장 정확하다.
+3위 안 F — `f-390-today.jpg` 의 크림 바탕·원형 체크·선 구분 리스트가 중장년에게 가장 편안하나, `f-390-read.jpg` 의 AI 베이지 박스가 페이지 크림 배경과 명도 차가 작아 층 분리가 한 단계 무르다.
+4위 안 A — 재촬영본에서 `a-390-read.jpg`·`a-390-words.jpg` 상단에 "참아버님 · 천성경 · 2013 한국어판 · O1 공식 원문"이 복구돼 필수 요건을 채웠고 `a-390-today.jpg` 의 카드 리듬도 여전히 강하지만, AI 설명과 내 메모가 둘 다 점선 상자라 3층 중 아래 두 층이 같은 언어를 쓴다.
+5위 안 D — `d-390-words.jpg`·`d-1280-words.jpg` 에서 하이라이트 3종이 전부 같은 회색이라 강조의 의미 구분이 사라졌고, 검은 밴드와 잡지형 초대형 세리프가 조용한 신앙 앱보다 시사 매거진으로 읽힌다.
+6위 안 G — `g-390-read.jpg` 에서 원문·AI 설명·메모가 모두 흰 배경 위 비슷한 실선 카드/평문이라 3층이 거의 평평하고, 핫핑크 강조색이 1순위 사용자층과 어긋난다.
+7위 안 B — `b-390-today.jpg` 는 히어로 위에 대형 H1 을 얹어 첫 화면을 다 쓰고, `b-1280-words.jpg` 는 한 줄 55자 안팎으로 읽기 폭이 무너지며, 고채도 파랑이 톤을 지배한다.
+
+## 시안별 한 줄 평
+- 안 A: 강점 — `a-390-today.jpg` 의 3분할 카드와 큰 원형 체크로 폰 조작성이 최상이고, 원문 좌측 굵은 세로바와 AI 설명의 도트 패턴 배경이 "공식 대 비공식"을 질감으로 말한다. 약점 — `a-390-read.jpg` 에서 AI 설명과 내 메모가 둘 다 점선 상자라 두 층이 같은 언어를 쓰고, 복구된 출처 줄과 원문 제목이 모두 작은 글씨여서 계층이 눌린다.
+- 안 B: 강점 — 본문 글자가 크고 검정 대비가 확실해 글씨 자체는 잘 읽힌다. 약점 — `b-390-today.jpg` 에서 타이틀·히어로가 중복으로 첫 화면을 삼키고 실천 카드 제목이 2줄로 흘러 리듬이 깨진다.
+- 안 C: 강점 — 라일락 AI 블록이 7안 중 "이건 공식이 아니다"를 가장 즉각적으로 말한다. 약점 — `c-390-today.jpg` 의 체크박스가 작은 사각형이라 엄지 탭 타겟이 부족하고, 보라가 웜 팔레트와 톤이 어긋난다.
+- 안 D: 강점 — 순흑 본문 + 큰 세리프로 대비·가독은 7안 최고. 약점 — 하이라이트를 회색 하나로 통일해 강조의 종류 구분이 소멸했다.
+- 안 E: 강점 — 반전 원문 블록으로 권위 층을 형태로 못 박았고 톤이 제품 정서와 일치. 약점 — `e-390-words.jpg` 하단 딥그린 푸터가 딥그린 탭바와 붙어 짙은 띠 두 겹이 화면을 막는다.
+- 안 F: 강점 — 카드 없이 선으로만 구분한 `f-390-today.jpg` 가 가장 조용하면서 정보량은 유지된다. 약점 — 이번 주 월·화만 검정 채움이라 테라코타 팔레트와 충돌하고, AI 박스 대비가 약하다.
+- 안 G: 강점 — 스크롤이 가장 짧고 `g-390-read.jpg` 의 본문 글자가 커서 훑기 쉽다. 약점 — 원문에 배경도 세로바도 없어 AI 카드·메모 카드와 구분되지 않는다.
+
+## 결정권자에게
+- **고른다면**: 안 E. 이 제품의 1순위 축인 권위 층 분리를 색이 아닌 배경 반전이라는 형태로 해결했고(`e-390-read.jpg`), 폰 기준 밀도·탭 타겟·톤이 동시에 맞는 유일한 안이다. 색각 이상이나 저조도에서도 "짙은 덩어리 = 공식 원문"이 살아남는다.
+- **주의할 점**:
+  1. `e-390-today.jpg`·`e-1280-today.jpg` 의 딥그린 카드 위 골드 `D-14` 는 대비가 AA 경계로 보인다. 골드를 밝히거나 숫자를 흰색으로 돌릴 것.
+  2. `e-390-words.jpg` 의 딥그린 푸터 밴드는 딥그린 탭바와 연속돼 화면 하단이 막힌다. 푸터는 크림 배경 + 본문색 캡션으로 내릴 것.
+  3. 반전 블록은 짧은 한 단락에서만 성립한다. 원문이 길어지는 화면에서는 반전 대신 좌측 굵은 바 + 크림 카드로 강등하는 규칙을 미리 정할 것.
+- **가장 아까운 안**: 안 C. 순위는 2위지만 `c-390-read.jpg` 의 라일락 AI 블록은 E 의 회색 AI 박스보다 "비공식"을 더 잘 말한다. E 의 AI 설명 배경을 C 의 중립 라일락 계열로 바꿔 오는 것을 권한다. 안 D 의 순흑 본문 글자 크기도 가져올 값이다.
+- **폰에서만 드러난 문제**:
+  1. 안 C·D 의 체크박스가 390px 에서 작은 사각형(약 30px)이라 엄지 탭 타겟이 부족하다. PC 캡처(`c-1280-today.jpg`, `d-1280-today.jpg`)에서는 마우스 기준이라 전혀 문제로 보이지 않는다.
+  2. 안 B·D 는 상단 대형 타이틀/검은 밴드가 `b-390-today.jpg`·`d-390-today.jpg` 첫 화면의 40% 가까이를 먹어 "오늘의 실천"이 스크롤 아래로 밀린다. 1280 에서는 같은 요소가 가로로 퍼져 손실이 보이지 않는다.
+  3. 안 A 의 재촬영 `a-390-read.jpg` 는 출처 줄·원문 제목·원문 블록이 390px 에서 세 줄로 겹겹이 쌓여 본문 시작점이 밀린다. `a-1280-words.jpg` 에서는 같은 메타가 한 줄로 흡수돼 문제로 보이지 않는다.
+
+## 재채점 기록
+- 안 A 68 → 73. 재촬영본에서 read·words 상단 출처 라인과 `O1 공식 원문` 배지가 복구된 것을 확인했다(홈은 의도대로 숨김 유지).
+- 바뀐 축: 3.권위층 12 → 16(출처 표기 누락이라는 필수 요건 위반이 해소됨, 다만 AI 설명·메모의 점선 중복은 그대로라 만점권은 아님), 4.접근성 12 → 11에서 12(원문의 출처·판본 정보가 화면에서 읽을 수 있게 됨).
+- 1·2·5축과 다른 6안 점수는 변동 없음. 순위도 4위 그대로이며 3위 F(79)와의 간격만 11점 → 6점으로 좁혀졌다.

diff --git a/docs/TODO.md b/docs/TODO.md
@@ -64,6 +64,14 @@ Flutter 앱    ░░░░░░░░░░░░░░░░░░░░   0%
 - [x] 비교 문서 `DES-PWA-004` 작성 (`docs/prd/2026-09-16-hoondok-desktop-directions.md`) — 대비 계산 비교, 3개 도구의 수렴 선택 4가지, 심사 집계, 결정 가이드
 - [x] 공정성 공개 — 안 A 에만 검증용 주석 박스 7개가 있어 심사원 2명이 감점. `a-clean-*.jpg` 별도 제공. 단 A 의 최대 약점(레이아웃 13.0)은 주석과 무관
 
+### 훈독 DESIGN.md 7안 비교 + 독립 심사 (2026-09-16)
+- [x] awesome-design-md(MIT) DESIGN.md 6종 사본 보관(`docs/research/design-md/`) + 훈독 도메인 번역 테마 CSS 6장. 마크업 한 벌 `hoondok-ds/app.html` 위에 `[data-theme]` 오버라이드만. 브랜드 기호 0
+- [x] 심사 전 스킬 패스 2회 — `ui-ux-pro-max` 21건(E 탭 포커스 링 2.16:1 → 흰 링) · `taste-skill` 14건(F 균일 카드 → 헤어라인 행). 기각 사유는 CSS 하단 주석
+- [x] 7안 × (폰 3 + PC 2) = 35캡처, 가로 넘침 0, JS 오류 0. 비교 보드 `board-designmd.html`(폭·화면·실제 크기 토글)
+- [x] 독립 심사 3명(빈 컨텍스트 opus, 5축 × 20점) — **C Notion · E Starbucks 84.3 동률** · F Claude 78.7 · A 73.3 · D 68.7 · B 66.3 · G 63.3. 원문 `docs/prd/prototypes/reviews-2026-09-16-designmd/`
+- [x] 심사 중 **A 기준안 결함 발견·수정** — `theme-card.css` 가 출처 라인을 모든 화면에서 숨겨 read·words 에 `O1 공식 원문` 배지가 없었다(이전 커밋 `4ecf6d0`). today 한정으로 수정 후 A 만 재채점(65/71/68 → 70/77/73, 순위 구조 불변)
+- [x] 비교 문서 `DES-PWA-005` (`docs/prd/2026-09-16-hoondok-designmd-directions.md`) — 토큰·대비 표, 3명 공통 지적, 결정 가이드, 흡수 후보 4건
+
 ### 체험단 최종 현황 리포트 (2026-07-30)
 - [x] 종료 설문·중간미션 원본과 Oracle 운영 DB를 교차 검증해 실제 이용·미션 제출 현황 HTML/PNG 생성 (`docs/dev-log/2026-07-30-beta-final-status-report.md`)
 - [x] 종료 설문 제출자 14명을 대상으로 운영 DB 질문 5건·중간미션 누적 5건의 동시 충족 여부를 PNG로 생성 (12명 충족, 2명 미션 기준 미달)
@@ -214,7 +222,8 @@ Flutter 앱    ░░░░░░░░░░░░░░░░░░░░   0%
 - `[종결]` `DEC-PWA-019` 개인 랭킹·달란트형 화폐 — **2026-09-14 둘 다 제외 확정**. 진행률·참여 인원만 표시
 - `[종결]` `DES-PWA-003-Q1` 권위 층 배지 — **2026-09-16 "시안 그대로" 확정**. O1·O2 는 초록(`--ok-soft`) 유지. `--ok` 는 완료와 정본 등급 두 의미를 가지며, 혼동은 형태로 막는다(완료 = 체크 아이콘, 등급 = 등급 숫자 + 한국어 라벨). 글자색만 대비 미달(4.49:1)로 `--ok-strong`(6.14:1) 교체. [DES-PWA-003 §2.3](specs/web/hoondok-design-system.md)
 - `[확인 필요]` **`DES-PWA-004` 데스크톱 시안 4안 중 무엇으로 갈 것인가** — 심사 1위는 D 솔잎 조판(89.3)이나 `DEC-PWA-017`(A 아침 햇살 단독) 재결정이 필요하고, D 는 액센트 2색이 `--ok` 완료 시맨틱과 충돌해 해소가 필수다. A 를 유지하면 재결정은 없지만 데스크톱 레이아웃(13.0/20)을 손봐야 한다. [DES-PWA-004 §6](prd/2026-09-16-hoondok-desktop-directions.md)
-- `[확인 필요]` **세리프 말씀 인용 재검토** — `DEC-PWA-017` 이 2026-09-14 기각한 항목인데 3개 디자인 도구가 독립적으로 모두 재제안했다. 기각 근거였던 "장년층 가독성 확인"은 아직 수행하지 않았다
+- `[확인 필요]` **`DES-PWA-005` DESIGN.md 7안 중 무엇으로 갈 것인가** — C Notion·E Starbucks 동률 1위(84.3), F Claude 3위, A 기준 4위(73.3). E·C·F 는 `DEC-PWA-017` 재결정 + `DES-PWA-003` 토큰 교체가 필요하고, A 유지 시 E 의 반전 원문 블록·C 의 AI 이중 라벨·D 의 형태 전용 요일 칩 흡수를 권한다. 7안 공통 미해결 2건(인라인 링크 19.5px, 체크·칩 44px 미만)은 어느 안이든 같이 고친다. [DES-PWA-005 §5](prd/2026-09-16-hoondok-designmd-directions.md)
+- `[확인 필요]` **세리프 말씀 인용 재검토** — `DEC-PWA-017` 이 2026-09-14 기각한 항목인데 3개 디자인 도구가 독립적으로 모두 재제안했고, `DES-PWA-005` 상위 3안(C·E·F)도 전부 세리프 원문이다. 기각 근거였던 "장년층 가독성 확인"은 아직 수행하지 않았다
 - `[확인 필요]` 좌측 레일 vs 상단 가로 내비 — `DES-PWA-003` §4.1 은 레일을 택했으나 3개 도구 모두 상단 가로 내비를 택했다. 5개 항목에 240px 세로 기둥이 과한지 `[가정]`
 - `[확인 필요]` `DES-PWA-003-Q2` 히어로 사진 큐레이션 주체와 권리 확인 절차. 시안의 `picsum.photos` 예시를 대체할 소스가 없으면 홈 히어로를 텍스트 카드로 바꿔야 한다 (`RSK-PWA-008` 연결)
 - `[확인 필요]` `DEC-PWA-020` "가행국 가정예배"의 정식 명칭·주관 부서와 순서지 편성 주체

diff --git a/docs/prd/prototypes/reviews-2026-09-16-designmd/README.md b/docs/prd/prototypes/reviews-2026-09-16-designmd/README.md
@@ -1,0 +1,15 @@
+# DESIGN.md 7안 독립 심사 원문 (2026-09-16)
+
+- 집계와 해석은 [`DES-PWA-005` 비교 문서 §4](../../2026-09-16-hoondok-designmd-directions.md)에 있다. 이 폴더는 **가공하지 않은 원문**이다
+- 심사원 3명은 각각 빈 컨텍스트(opus)에서 시작했고 서로 상의하지 않았다. 브랜드 이름은 프롬프트에 넣지 않았다
+- 각자 캡처 35장(7안 × 폰 today·read·words + PC today·words)을 직접 열어 보고 채점했다. 캡처: [`../screenshots/2026-09-16-designmd/`](../screenshots/2026-09-16-designmd/)
+- 첫 채점 뒤 **안 A 의 제작 결함**(read·words 화면 출처 라인 누락)을 고치고 A 만 재채점했다. 기록은 각 파일 하단 `## 재채점 기록`
+
+| 파일 | 내용 |
+|---|---|
+| [00-채점-기준.md](00-채점-기준.md) | 세 심사원에게 준 지침 전문 (5축 × 20점, 제출 형식) |
+| [judge-1.md](judge-1.md) | 심사원 1번 — A 70 / B 73 / **C 85** / D 63 / E 76 / F 77 / G 64 |
+| [judge-2.md](judge-2.md) | 심사원 2번 — A 77 / B 70 / C 88 / D 76 / **E 89** / F 80 / G 68 |
+| [judge-3.md](judge-3.md) | 심사원 3번 — A 73 / B 56 / C 80 / D 67 / **E 88** / F 79 / G 58 |
+
+평균: **C 84.3 · E 84.3** (동률) · F 78.7 · A 73.3 · D 68.7 · B 66.3 · G 63.3. E 가 1위 2표, C 가 1위 1표 + 2위 2표.
